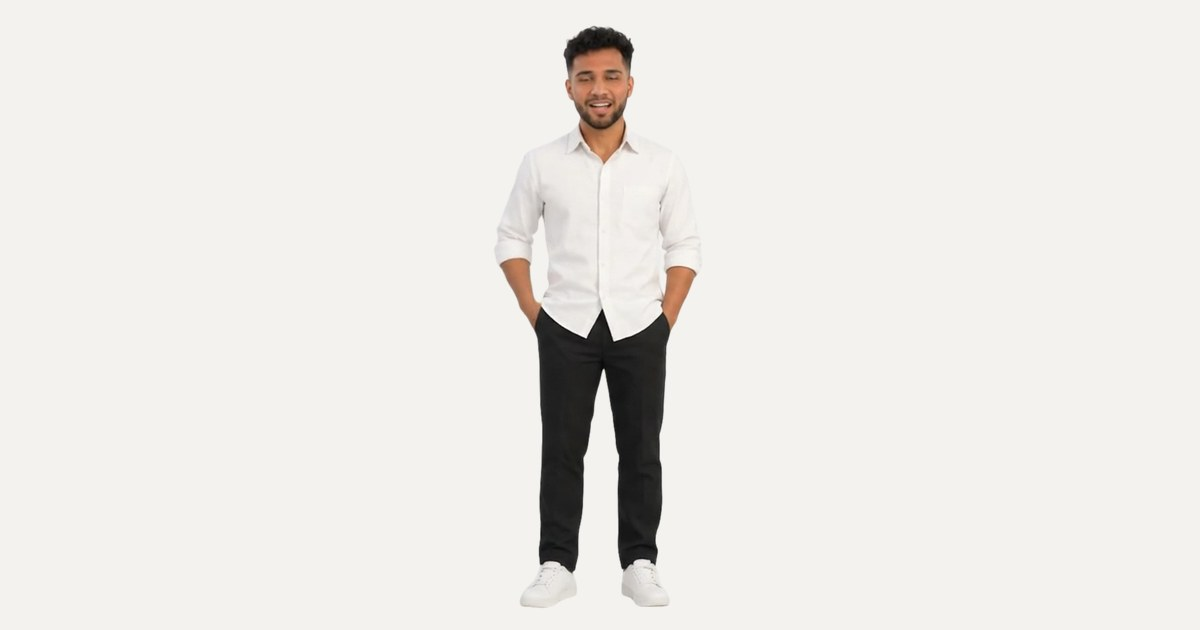
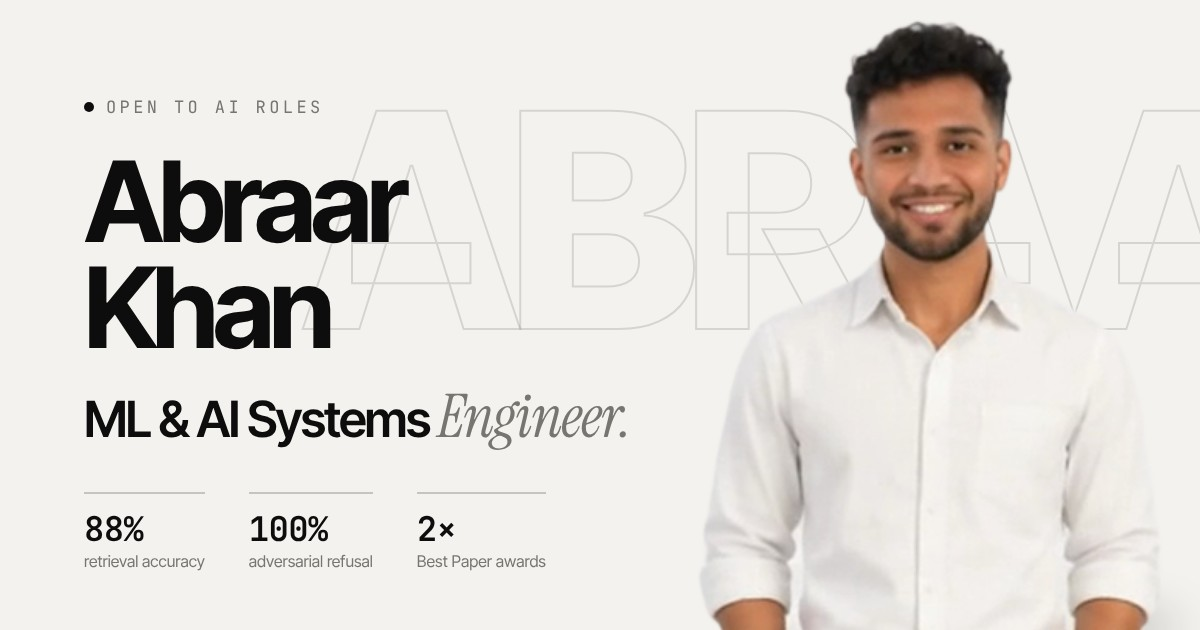
Designed share image: name, role, headline results and a larger portrait
Build script keeps an existing og.jpg instead of overwriting it.

Claude-Session: https://claude.ai/code/session_01PFX3bW288rAhziG5CtmSYy

diff --git a/scripts/build-hero-assets.py b/scripts/build-hero-assets.py
@@ -236,10 +236,11 @@ def main():
         elif not (PUB / "portrait-bust.webp").exists():
             bg = Image.new("RGBA", mid.size, (232, 230, 224, 255)); bg.alpha_composite(mid)
             bg.convert("RGB").crop((144, 0, 624, 600)).save(PUB / "portrait-bust.webp", quality=85)
-        og = Image.new("RGB", (1200, 630), (244, 242, 238))
-        p = mid.resize((int(OUT_W * 630 / OUT_H), 630), Image.LANCZOS)
-        og.paste(p, ((1200 - p.width) // 2, 0), p)
-        og.save(PUB / "og.jpg", quality=88)
+        if not (PUB / "og.jpg").exists():   # the designed share image (name + role + you) is kept if present
+            og = Image.new("RGB", (1200, 630), (244, 242, 238))
+            p = mid.resize((int(OUT_W * 630 / OUT_H), 630), Image.LANCZOS)
+            og.paste(p, ((1200 - p.width) // 2, 0), p)
+            og.save(PUB / "og.jpg", quality=88)
 
     for f in ["hero/hero.webm", "hero/hero.mp4", "portrait-bust.webp", "og.jpg"]:
         print(f"  wrote public/{f}  ({(PUB / f).stat().st_size / 1024:.0f} KB)")
